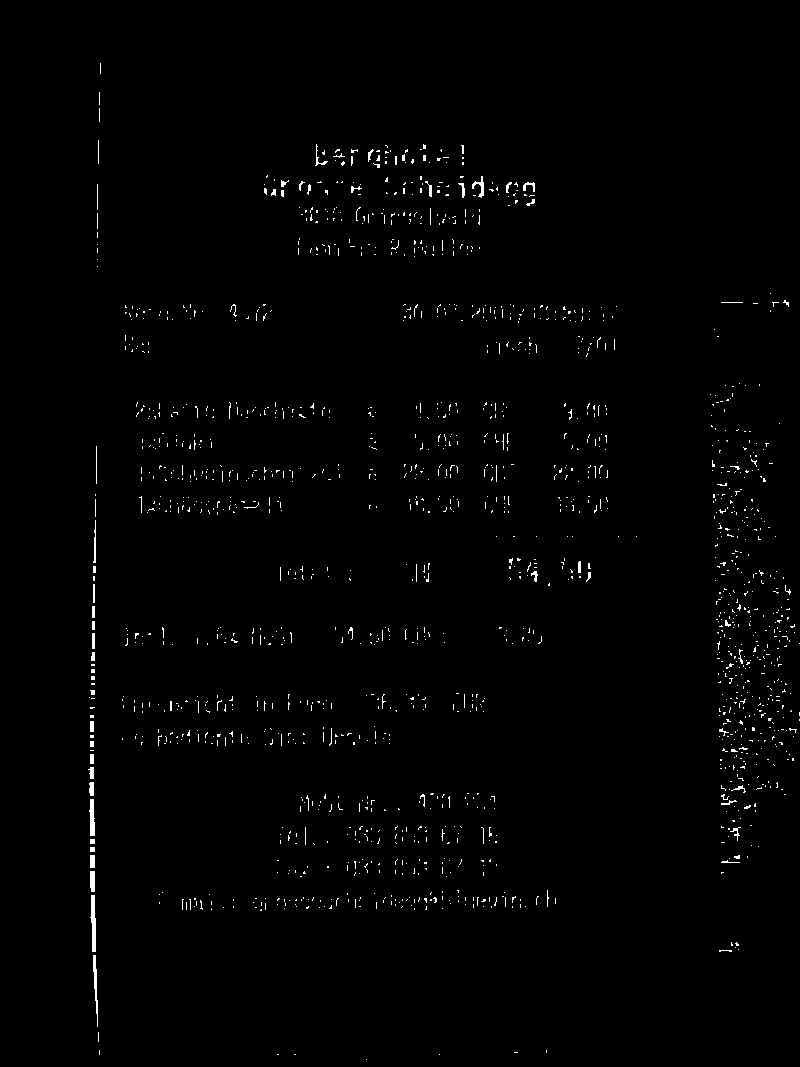
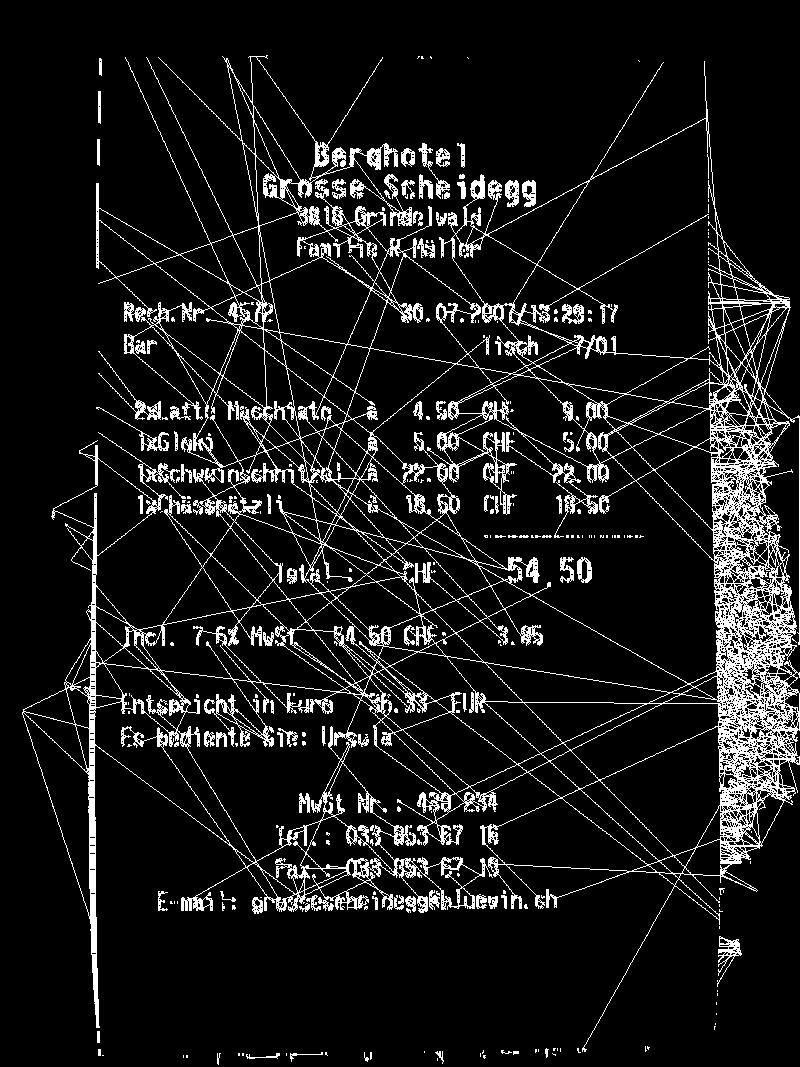
more work on report, making figure

diff --git a/src/Key_tests/Stroke_widt_transform.py b/src/Key_tests/Stroke_widt_transform.py
@@ -164,9 +164,6 @@ def draw_mask(mask):
     bin_image = bin_image.astype(np.uint8)
     bin_image *= 255
     
-    kernel = np.ones((3,3),np.uint8)
-    bin_image = cv2.erode(bin_image, kernel)
-
     cv2.imwrite('swt.png', bin_image)
     cv2.imshow("text area", bin_image) 
     cv2.waitKey()
